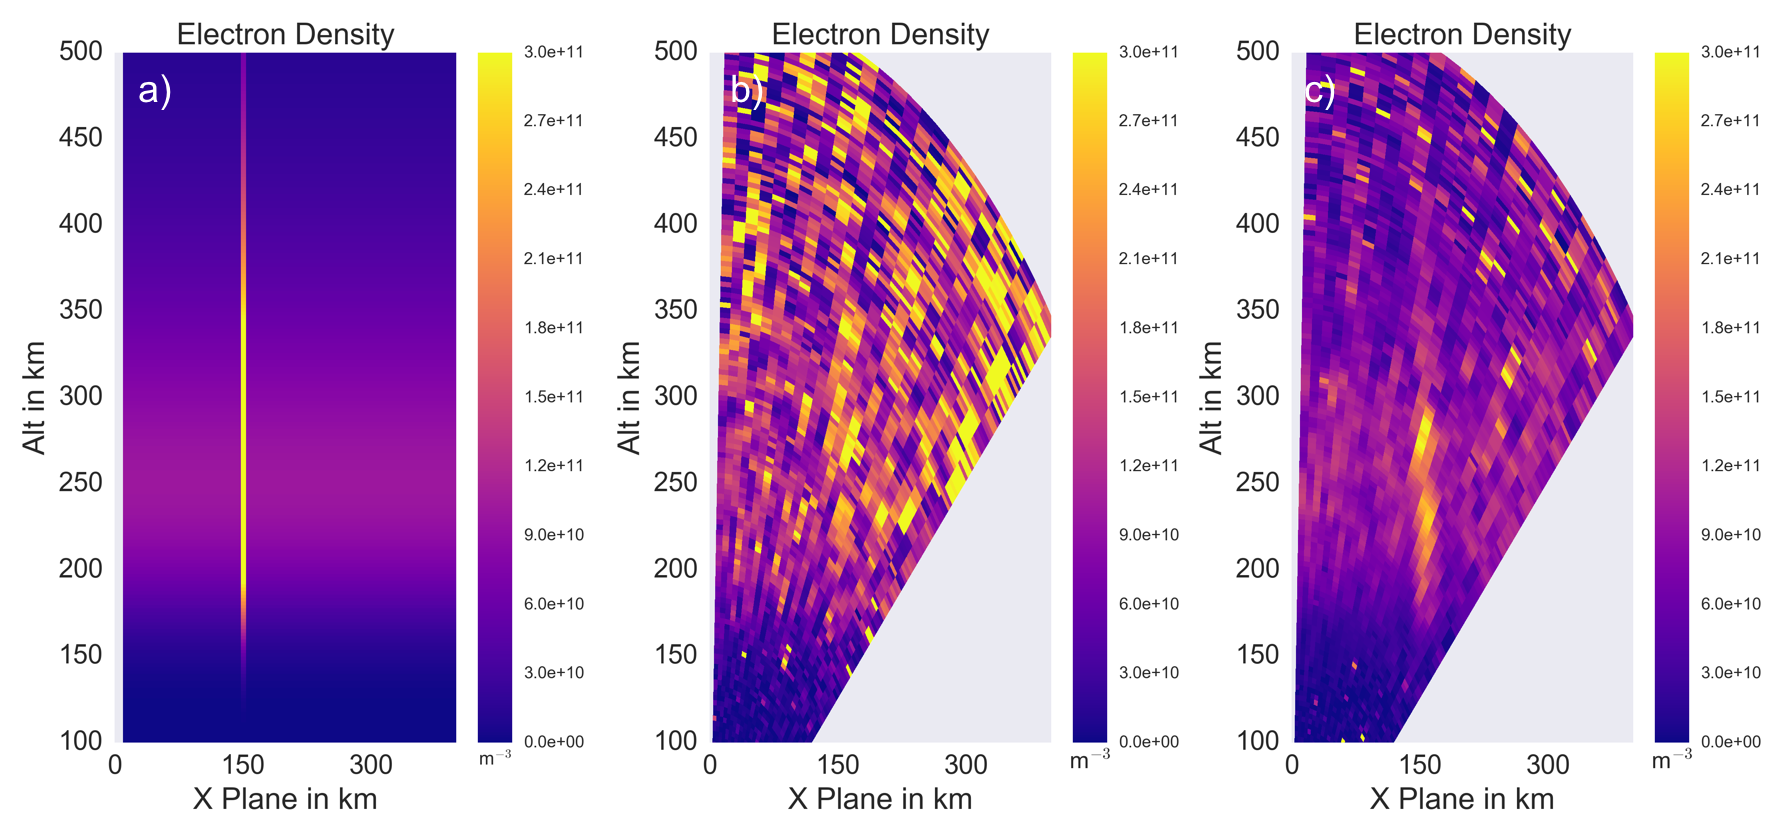
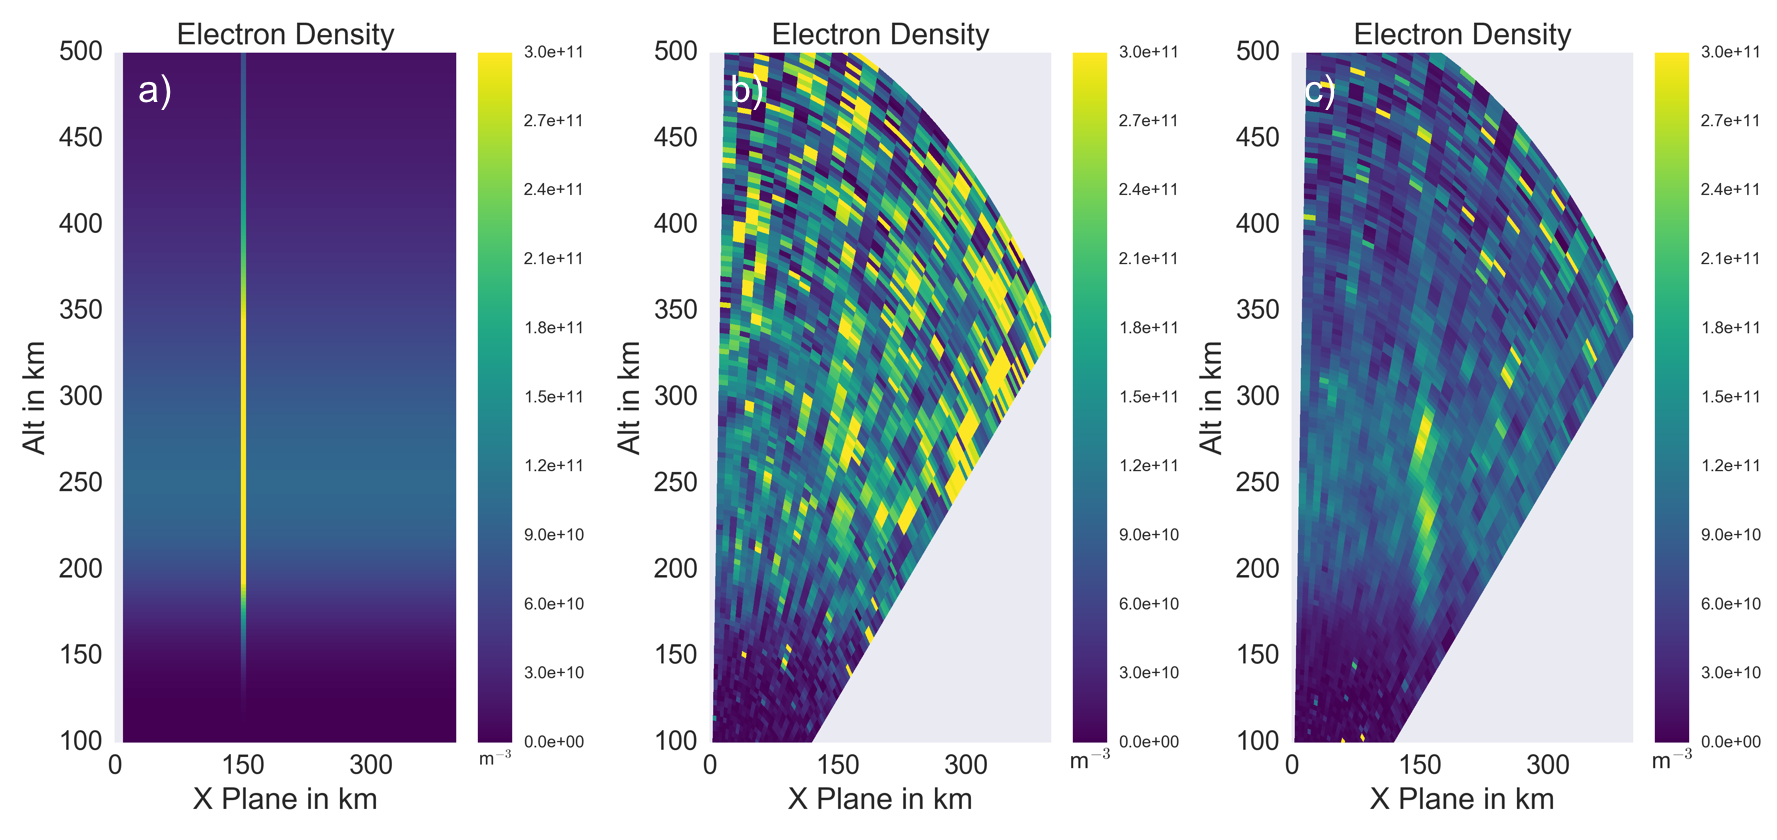
Updated images with new color scheme

diff --git a/ISRError.tex b/ISRError.tex
@@ -532,8 +532,8 @@ Finally, plasma parameters derived from a multi-fluid model developed in \cite{s
 
 \begin{figure}[!t]
 \centering
-\includegraphics[width=6in]{0000_15_int}
-\caption{Contour of background ionospheric parameters ($N_e$, $T_e$, $T_i$) used for simulations.}
+\includegraphics[width=6in]{backgroundallparams}
+\caption{Background ionospheric parameters ($N_e$, $T_e$, $T_i$) along with number density of ion species, used for simulations.}
 \label{fig:plparamst0}
 \end{figure}
 
@@ -546,7 +546,7 @@ Finally, plasma parameters derived from a multi-fluid model developed in \cite{s
 
 Using a beam pattern similar to the one seen in the right panel of Figure \ref{fig:background1}, we use the ISR simulator to explore how an electronically scanned ISR may reconstruct the scene. This a best case condition, as we have apriori knowledge of the plane that the arc is traveling in, and have set up the radar spatial beam pattern for the experiment to take advantage of this knowledge. This feature reduces the number of radar beams and required integration time to gain the desired statistics. 
 
-\pcom{I would plot the composition curve!}{It is also assumed that the ratios between ion species are known.} \pcom{see comment below - reword.}{This is a common practice in ISR fitting as allowing the ratios to be free parameters allows for non-unique solutions.} If the fixed, apriori assumed composition ratios between the different ion species are incorrect, this can lead to errors in the final parameter estimates. For the lower F region ionosphere, generally this usually leads to errors between 150-250 km where the ionosphere changes from NO$^+$ dominated to O$^+$ dominated. \pcom{awkward - reword}{This issue does come into play in this case, chemical recombination is cited as an effect in \citet{Perry:2015jf} and could be impacting the final parameter fitting.}
+\pcom{I would plot the composition curve!}{It is also assumed that the ratios between ion species are known.} \pcom{see comment below - reword.}{This is a common practice in ISR fitting as allowing the ratios to be free parameters allows for non-unique solutions.} If the fixed, apriori assumed composition ratios between the different ion species are incorrect, this can lead to errors in the final parameter estimates. For the lower F region ionosphere, generally this usually leads to errors between 150-250 km where the ionosphere changes from NO$^+$ dominated to O$^+$ dominated. \pcom{awkward - reword}{This issue does come into play in this case, chemical recombination is cited as an effect in \citet{Perry:2015jf} and could be impacting the final parameter fitting. \citep{Zettergren:2011ej, Blelly:2010gf}}
 
 {\bf JOHN: it is not always the case that allowing ion composition to vary causes non-unique solutions!  This is dangerous to imply.  For example, we let H+ and He+ vary all the time in the topside ionosphere and, with the right temperature constraint, it works.  It is completely situation dependent.}
 
